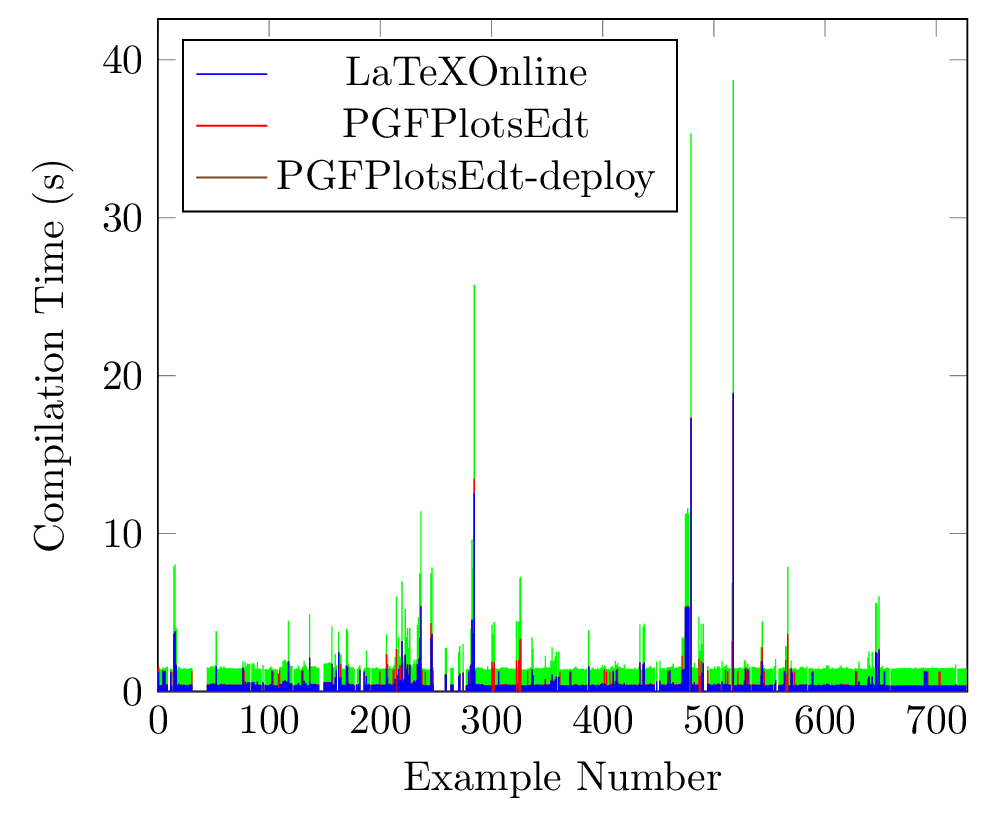
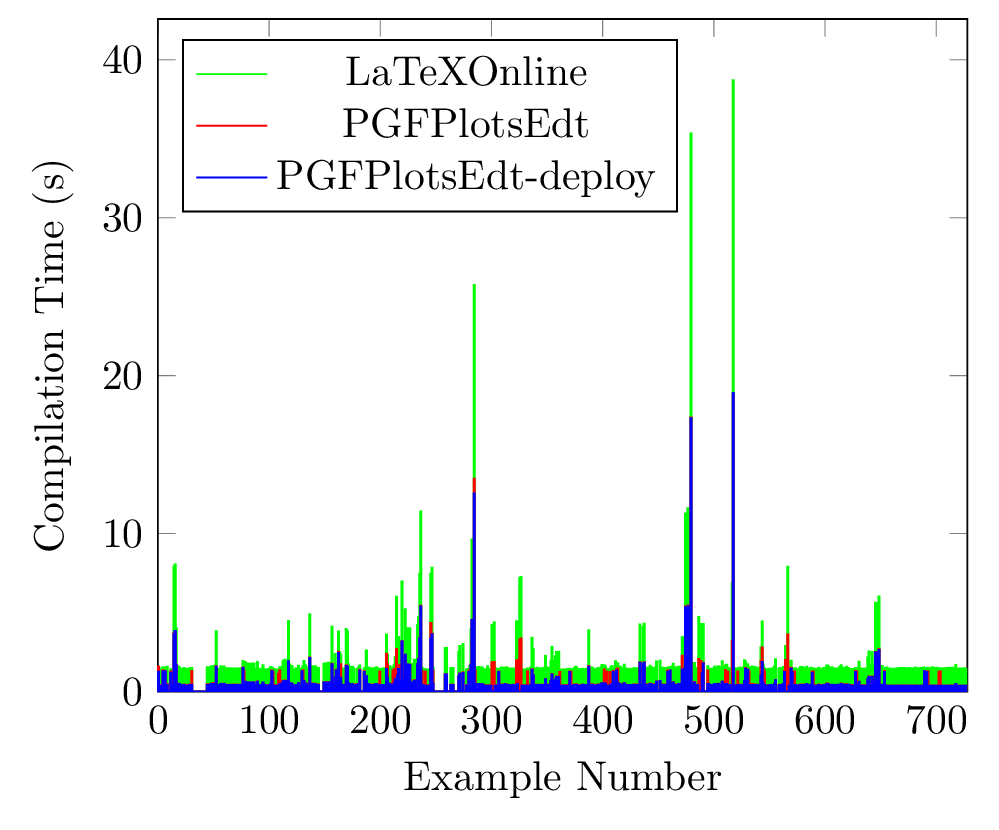
docs: update figs

Changed region(s): [[0.1552, 0.1807, 0.962, 0.8434], [0.4655, 0.5723, 0.4965, 0.6024], [0.2172, 0.2108, 0.2482, 0.241]]

diff --git a/figs/full.tex b/figs/full.tex
@@ -14,9 +14,9 @@ legend pos={north west},
 const plot,
 ]
  \pgfplotstableread [col sep=comma,] {../merged_result_times.csv}{\result}
- \addplot+ [no markers,fill=green,draw=none,] table[x=file,y=LaTeXOnline,] {\result} \closedcycle;
- \addplot+ [no markers,fill=red,draw=none,] table[x=file,y=PGFPlotsEdt,] {\result} \closedcycle;
- \addplot+ [no markers,fill=blue,draw=none,] table[x=file,y=PGFPlotsEdt-deploy,] {\result} \closedcycle;
+ \addplot+ [no markers,fill=green,draw=green,thin] table[x=file,y=LaTeXOnline,] {\result} \closedcycle;
+ \addplot+ [no markers,fill=red,draw=red,thin] table[x=file,y=PGFPlotsEdt,] {\result} \closedcycle;
+ \addplot+ [no markers,fill=blue,draw=blue,thin] table[x=file,y=PGFPlotsEdt-deploy,] {\result} \closedcycle;
  \legend{LaTeXOnline,PGFPlotsEdt,PGFPlotsEdt-deploy,}
 \end{axis}
 \end{tikzpicture}
